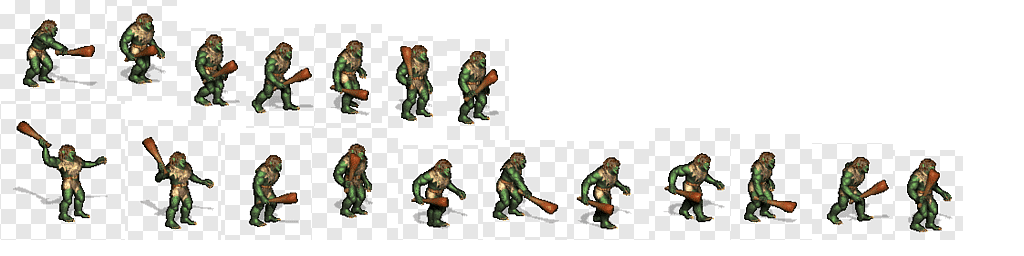
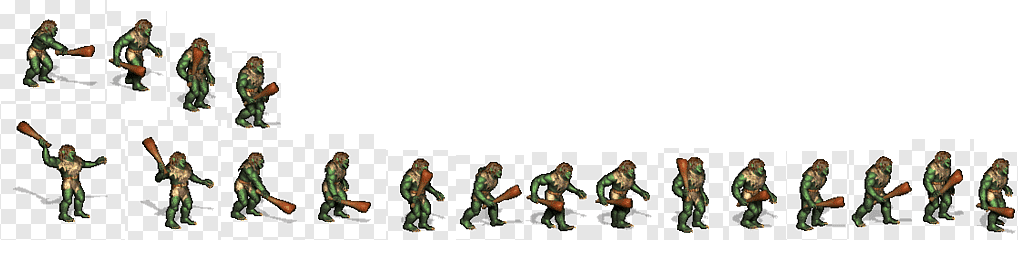
add atlas, test walking ok

diff --git a/core/src/com/mygdx/game/MyAnimation.java b/core/src/com/mygdx/game/MyAnimation.java
@@ -4,15 +4,17 @@ import com.badlogic.gdx.Gdx;
 import com.badlogic.gdx.graphics.Texture;
 import com.badlogic.gdx.graphics.g2d.Animation;
 import com.badlogic.gdx.graphics.g2d.SpriteBatch;
+import com.badlogic.gdx.graphics.g2d.TextureAtlas;
 import com.badlogic.gdx.graphics.g2d.TextureRegion;
 
 public class MyAnimation {
 
     private Texture img;
     private Animation<TextureRegion> anim;
+    private TextureAtlas atlas;
 
     private float time;
-    private float speed = 200F;
+    private float speed = 100F;
     private float currentPosition = 0;
 
 
@@ -29,8 +31,14 @@ public class MyAnimation {
                 region1[count++] = regions0[i][j];
             }
         }
-
         anim = new Animation<TextureRegion>(1 / 20f, region1);
+        anim.setPlayMode(playMode);
+        time += Gdx.graphics.getDeltaTime();
+    }
+
+    public MyAnimation(String atlasName, Animation.PlayMode playMode) {
+        atlas = new TextureAtlas(atlasName);
+        anim = new Animation<TextureRegion>(1 / 10f, atlas.findRegions("Walk"));
         anim.setPlayMode(playMode);
         time += Gdx.graphics.getDeltaTime();
     }
@@ -86,7 +94,7 @@ public class MyAnimation {
     }
 
     public void dispose() {
-        img.dispose();
+        atlas.dispose();
     }
 
 }

diff --git a/core/src/com/mygdx/game/MyGdxGame.java b/core/src/com/mygdx/game/MyGdxGame.java
@@ -13,10 +13,11 @@ public class MyGdxGame extends ApplicationAdapter {
     int clickCounter;
     MyAnimation animation;
 
+
     @Override
     public void create() {
         batch = new SpriteBatch();
-        animation = new MyAnimation("boy.png", 6, 3, Animation.PlayMode.LOOP);
+        animation = new MyAnimation("atlas/ogrepack.atlas",Animation.PlayMode.LOOP);
     }
 
     @Override
